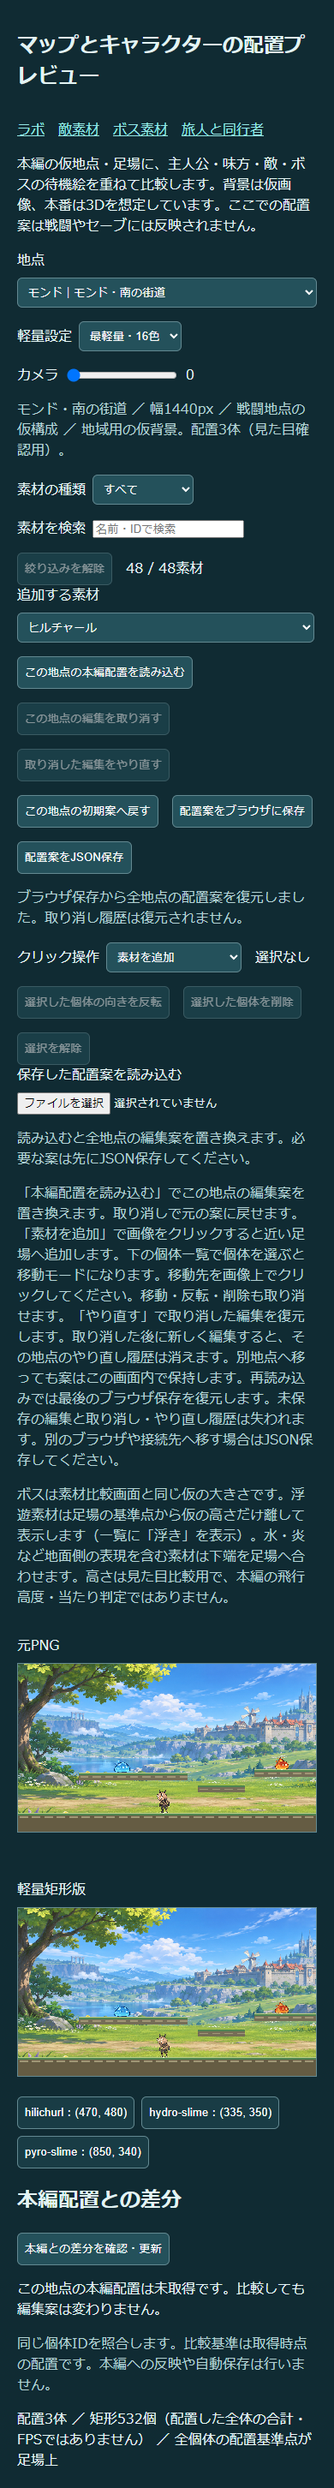
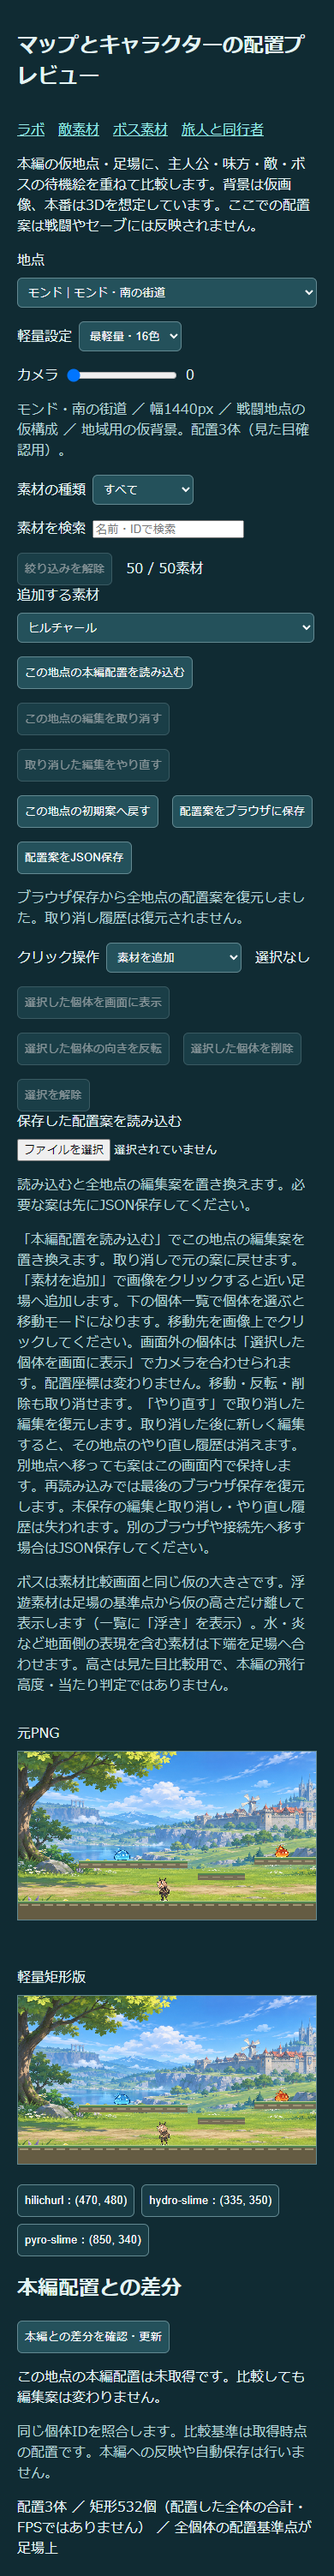
Focus map camera on selected sprite without changing placement

diff --git a/map-art.html b/map-art.html
@@ -5,9 +5,9 @@
 <div class="controls"><label>地点 <select id="node"></select></label><label>軽量設定 <select id="profile"><option value="legacy">標準</option><option value="h48c32">中間・32色</option><option value="h32c16" selected>最軽量・16色</option></select></label><label>カメラ <input id="camera" type="range" min="0" value="0" step="1"><output id="cameraValue">0</output></label></div>
 <p id="context" class="note"></p><div class="controls"><label>追加する素材 <select id="species"><option value="armored-crab">重甲ヤドカニ（全身参照v2）</option><option value="nobushi">野伏・陣刀番（待機候補）</option><option value="dendro-fungus">浮遊草キノコン（待機候補）</option><option value="ruin-guard">遺跡守衛（待機候補）</option><option value="hilichurl" selected>ヒルチャール</option><option value="hydro-slime">水スライム（旧候補）</option><option value="pyro-slime">炎スライム（旧候補）</option><option value="hydro-slime-reference">水スライム（参照付き新候補）</option><option value="pyro-slime-reference">炎スライム（参照付き新候補）</option></select></label><button id="loadLive">この地点の本編配置を読み込む</button><button id="undo">この地点の編集を取り消す</button><button id="redo" disabled>取り消した編集をやり直す</button><button id="reset">この地点の初期案へ戻す</button><button id="saveBrowser">配置案をブラウザに保存</button><button id="export">配置案をJSON保存</button></div>
 <p id="browserStatus" class="note" role="status">ブラウザ保存は手動です。全地点の案をこのブラウザ・接続先に保存します。</p>
-<div class="controls"><label>クリック操作 <select id="editMode"><option value="add">素材を追加</option><option value="move">選択した個体を移動</option></select></label><span id="selectionStatus">選択なし</span><button id="flipSelected" disabled>選択した個体の向きを反転</button><button id="deleteSelected" disabled>選択した個体を削除</button><button id="clearSelection" disabled>選択を解除</button></div>
+<div class="controls"><label>クリック操作 <select id="editMode"><option value="add">素材を追加</option><option value="move">選択した個体を移動</option></select></label><span id="selectionStatus">選択なし</span><button id="focusSelected" disabled>選択した個体を画面に表示</button><button id="flipSelected" disabled>選択した個体の向きを反転</button><button id="deleteSelected" disabled>選択した個体を削除</button><button id="clearSelection" disabled>選択を解除</button></div>
 <label>保存した配置案を読み込む <input id="import" type="file" accept=".json,application/json"></label><p id="fileStatus" role="status" class="note">読み込むと全地点の編集案を置き換えます。必要な案は先にJSON保存してください。</p>
-<p class="note">「本編配置を読み込む」でこの地点の編集案を置き換えます。取り消しで元の案に戻せます。「素材を追加」で画像をクリックすると近い足場へ追加します。下の個体一覧で個体を選ぶと移動モードになります。移動先を画像上でクリックしてください。移動・反転・削除も取り消せます。「やり直す」で取り消した編集を復元します。取り消した後に新しく編集すると、その地点のやり直し履歴は消えます。別地点へ移っても案はこの画面内で保持します。再読み込みでは最後のブラウザ保存を復元します。未保存の編集と取り消し・やり直し履歴は失われます。別のブラウザや接続先へ移す場合はJSON保存してください。</p>
+<p class="note">「本編配置を読み込む」でこの地点の編集案を置き換えます。取り消しで元の案に戻せます。「素材を追加」で画像をクリックすると近い足場へ追加します。下の個体一覧で個体を選ぶと移動モードになります。移動先を画像上でクリックしてください。画面外の個体は「選択した個体を画面に表示」でカメラを合わせられます。配置座標は変わりません。移動・反転・削除も取り消せます。「やり直す」で取り消した編集を復元します。取り消した後に新しく編集すると、その地点のやり直し履歴は消えます。別地点へ移っても案はこの画面内で保持します。再読み込みでは最後のブラウザ保存を復元します。未保存の編集と取り消し・やり直し履歴は失われます。別のブラウザや接続先へ移す場合はJSON保存してください。</p>
 <p class="note">ボスは素材比較画面と同じ仮の大きさです。浮遊素材は足場の基準点から仮の高さだけ離して表示します（一覧に「浮き」を表示）。水・炎など地面側の表現を含む素材は下端を足場へ合わせます。高さは見た目比較用で、本編の飛行高度・当たり判定ではありません。</p>
 <main><figure><figcaption>元PNG</figcaption><canvas id="png" width="960" height="540"></canvas></figure><figure><figcaption>軽量矩形版</figcaption><canvas id="rect" width="960" height="540"></canvas></figure></main>
 <div id="placements"></div><section aria-label="本編配置との差分"><h2>本編配置との差分</h2><button id="compareLive">本編との差分を確認・更新</button><p id="diffSummary" role="status"></p><ul id="diffDetails"></ul><p class="note">同じ個体IDを照合します。比較基準は取得時点の配置です。本編への反映や自動保存は行いません。</p></section><p id="status" role="status">読み込み中</p><script type="module" src="map-art.js"></script></html>

diff --git a/map-art.js b/map-art.js
@@ -65,7 +65,7 @@ try{
    }
   }
   $('placements').replaceChildren();for(const e of items){const label=document.createElement('button');label.type='button';label.dataset.id=e.id;label.setAttribute('aria-pressed',String(e.id===selected));label.onclick=()=>{selected=e.id;$('editMode').value='move';render()};label.textContent=`${e.species}：(${e.x}, ${e.y})${assets[e.species].hover?` ／ 浮き ${assets[e.species].hover}px`:``}`;$('placements').append(label)}
-  const chosen=items.find(e=>e.id===selected);$('selectionStatus').textContent=chosen?`選択：${chosen.species} (${chosen.x}, ${chosen.y})`:'選択なし';for(const id of ['flipSelected','deleteSelected','clearSelection'])$(id).disabled=!chosen;
+  const chosen=items.find(e=>e.id===selected);$('selectionStatus').textContent=chosen?`選択：${chosen.species} (${chosen.x}, ${chosen.y})`:'選択なし';for(const id of ['focusSelected','flipSelected','deleteSelected','clearSelection'])$(id).disabled=!chosen;
   const runs=items.reduce((sum,e)=>sum+assets[e.species].profiles[profile].runs.length,0);$('status').textContent=`配置${items.length}体 ／ 矩形${runs.toLocaleString()}個（配置した全体の合計・FPSではありません） ／ ${valid?'全個体の配置基準点が足場上':'足場外の配置あり'}`;$('undo').disabled=!(histories[n.id]?.length);$('redo').disabled=!(redos[n.id]?.length);
   const diff=baselines[n.id]?comparePlacements(baselines[n.id],items):null;
   $('diffSummary').textContent=diff?`取得した本編配置との差分：追加${diff.added.length}・削除${diff.removed.length}・変更${diff.changed.length}・同じ${diff.unchanged}体`:'この地点の本編配置は未取得です。比較しても編集案は変わりません。';
@@ -88,6 +88,13 @@ try{
  function select(){selected=null;const n=node();$('camera').max=Math.max(0,n.width-960);$('camera').value=0;render()}
  $('node').onchange=select;$('editMode').onchange=render;
  $('clearSelection').onclick=()=>{selected=null;$('editMode').value='add';render()};
+ $('focusSelected').onclick=()=>{
+  const e=placements().find(e=>e.id===selected);if(!e)return;
+  const a=assets[e.species],width=a.h*a.box[2]/a.box[3];
+  const center=e.x+width*(.5-(a.anchorX??.5))*(e.flip?-1:1);
+  $('camera').value=Math.round(Math.max(0,Math.min(Math.max(0,node().width-960),center-480)));
+  render();$('png').scrollIntoView({block:'center',behavior:'instant'});
+ };
  $('flipSelected').onclick=()=>{const e=placements().find(e=>e.id===selected);if(!e)return;remember(node().id);e.flip=!e.flip;render()};
  $('deleteSelected').onclick=()=>{if(!selected)return;remember(node().id);drafts.nodes[node().id]=placements().filter(e=>e.id!==selected);selected=null;render()};
 for(const id of ['camera','profile'])$(id).oninput=render;

diff --git a/CHAT_HANDOFF.md b/CHAT_HANDOFF.md
@@ -333,3 +333,6 @@ map-art.html追加: 本編61仮地点の足場/背景を選択し、元PNGと軽
 
 
 2026-11-17: 週ボス若陀龍王の参照付き待機候補を追加。HoYoWiki2212のカード/全身/イラストを直接確認し全身とイラストをbuiltin生成へ使用。Sketchfab Erial Game Studioのモデルをビューア表示したがchibi別造形のため生成参照から除外。原作対応3D/背面未確認。4脚・金角・岩装甲・樹木尾を目視、alpha128以上の外接枠は画像内。赤い目用に元絵59画素の中央値#be1312を既存32/16色枠内へ予約し23/12/7画素を保持するが、最軽量の目はまだ小さく弱い。220/165/110px=18545/11659/5356矩形（71.12%減、FPSではない）。30ボス32候補の3設定3倍率左右・配置・JSON読戻・undo・390px検査通過。装甲溝/枝先/腹模様が最軽量で粗い。樹冠は参照より大きい。技/形態変化/動作/本編配置未実装。根拠 evidence/azhdaha-reference-audit.json, evidence/azhdaha-comparison.png。
+
+
+2026-11-17: マップ配置の選択個体へカメラを合わせるボタンを追加。原PNGと矩形版を共通カメラで表示し、素材の足元anchorと左右反転を含む描画中心へ移動、マップ端へ制限。配置座標/選択/保存状態/undo-redo履歴は不変。選択解除/削除/地点切替で無効化。実在mond-roadと幅4800pxの将来拡張用テストfixtureで左右端/非対称anchor/反転をブラウザ検証、390pxでキャンバスへスクロールすることも目視。4800pxの本編地形を追加したものではない。技変更なし。根拠 evidence/map-focus-test.json, evidence/map-focus-mobile.png。
